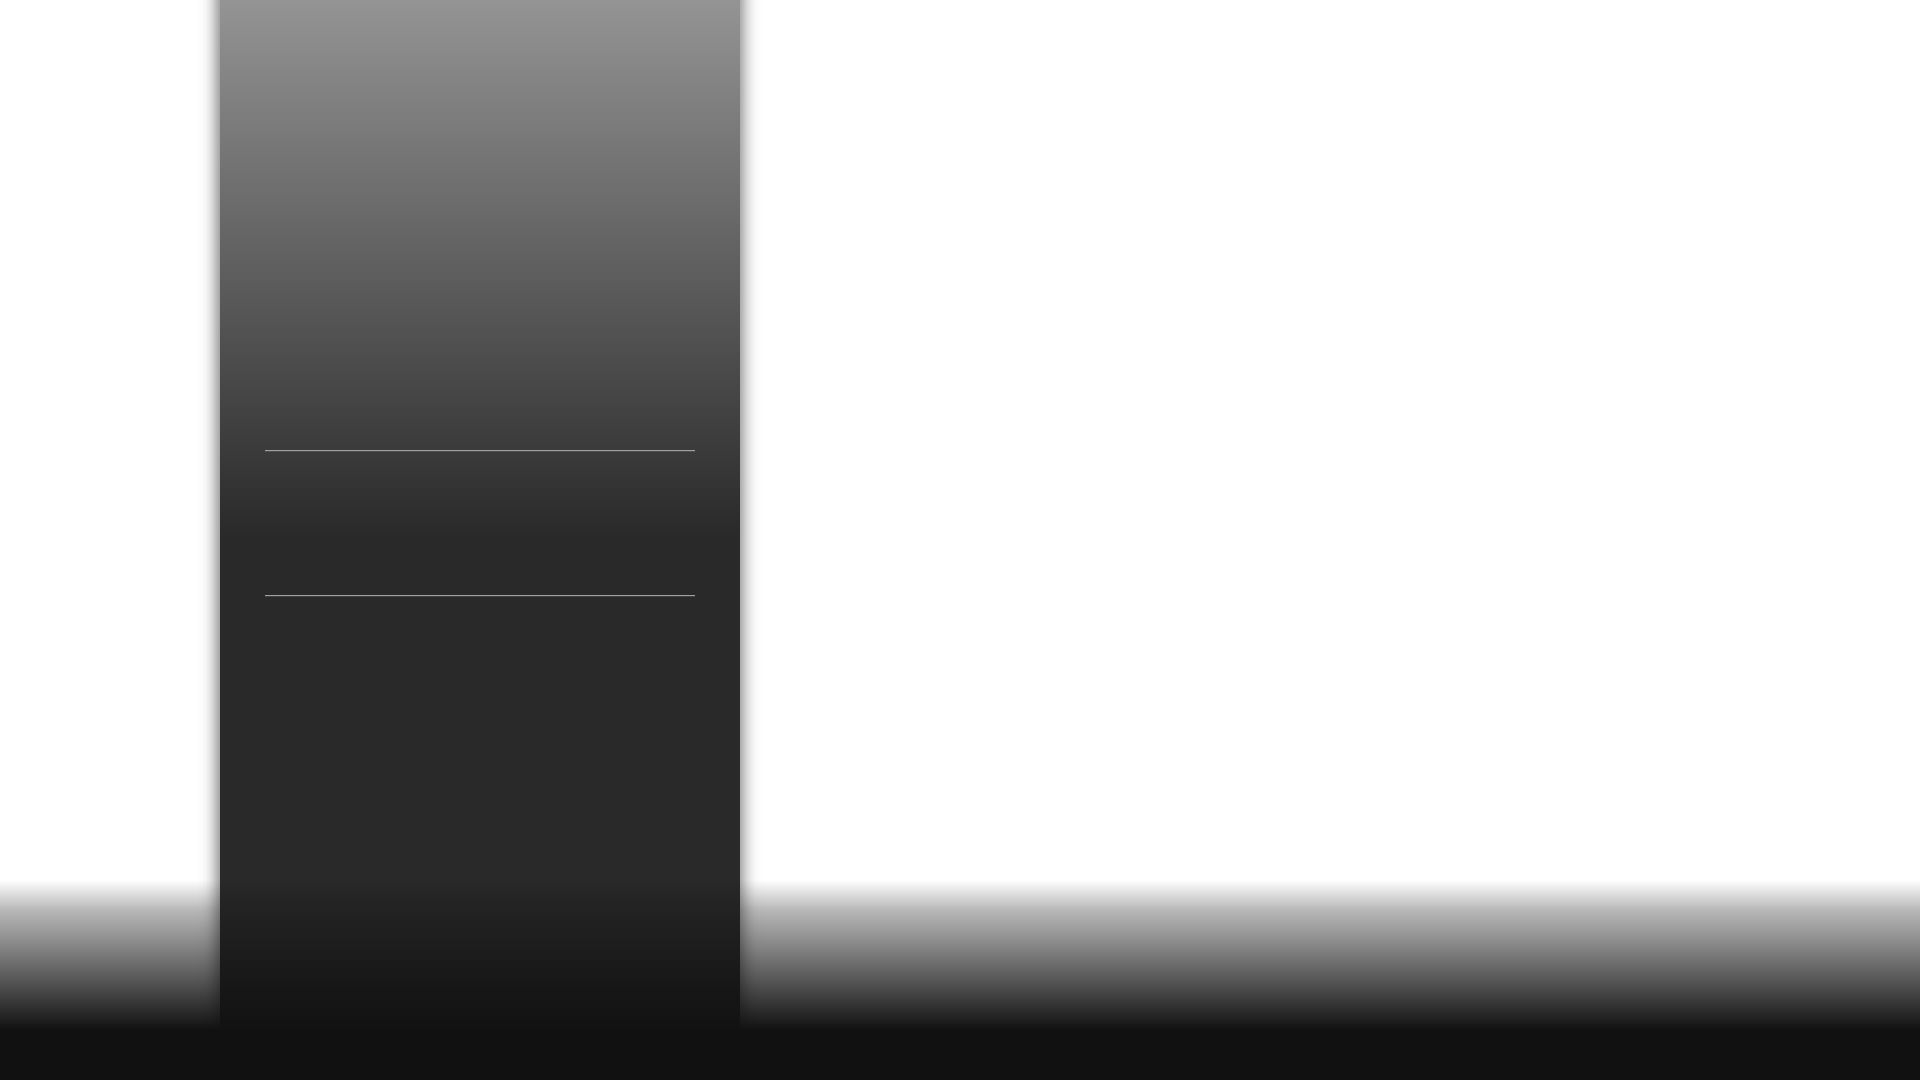
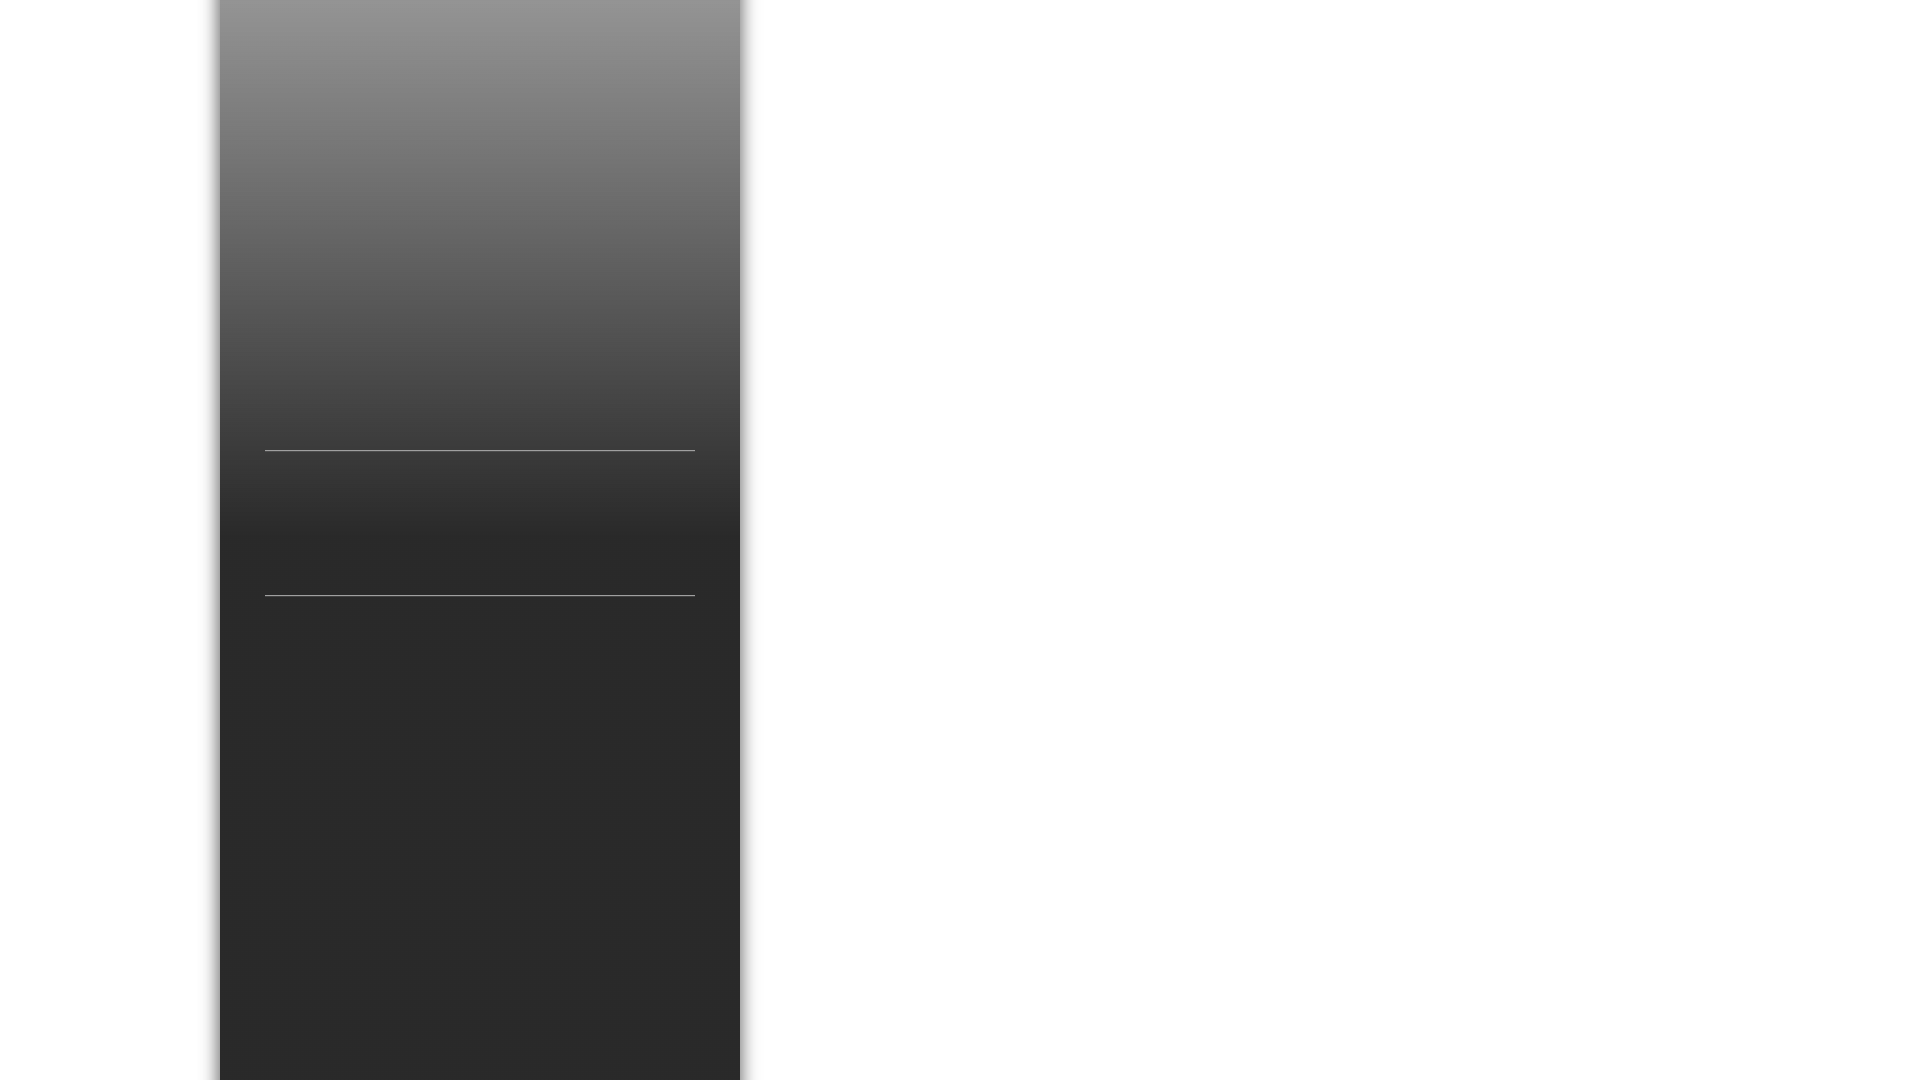
Split some SVG to avoid reloading them on page change
Notably, when going from system view to gamelist, the bottom bar
disappeared for a few ms.

Problem is that the overlay still takes some time to appear. Maybe there
is a way to preload it?

Changed region(s): [[0.375, 0.825, 1.0, 1.0], [0.0, 0.825, 0.125, 1.0]]

diff --git a/_inc/svg-to-png-sources/converter.html b/_inc/svg-to-png-sources/converter.html
@@ -50,6 +50,8 @@
             'system-carousel-selector-dark-with-shadow.svg',
             'bottom-bar-light.svg',
             'bottom-bar-dark.svg',
+            'overlay-light.svg',
+            'overlay-dark.svg',
         ];
 
 
